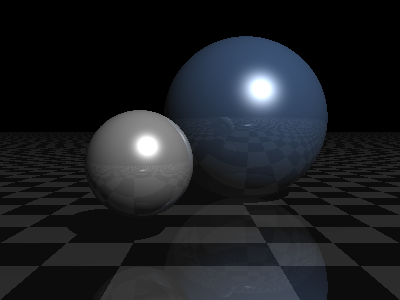
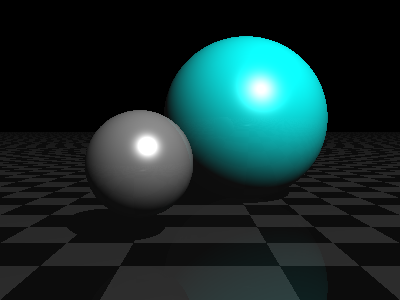
feat: backup texture code

Changed region(s): [[0.42, 0.12, 0.84, 0.6], [0.54, 0.9, 0.81, 1.0]]

diff --git a/ray_tracer/infrastructure.py b/ray_tracer/infrastructure.py
@@ -257,44 +257,6 @@ class NumpySphere(Shape):
         return self.diffuse
 
 
-def get_texture_color(texture: np.ndarray, u: float, v: float) -> NumpyRGBColor:
-    """
-    Retrieve the color from a normalized texture image at given UV coordinates.
-
-    Args:
-        texture (np.ndarray): A NumPy array of shape (H, W, 3) with values in [0, 1].
-        u (float): U coordinate (horizontal).
-        v (float): V coordinate (vertical).
-
-    Returns:
-        NumpyRGBColor: The RGB color at the specified UV coordinates.
-    """
-    u = u % 1  # Repeat if u > 1
-    v = v % 1
-    height, width, _ = texture.shape
-
-    i = (
-        (u * (width - 1)).astype(int)
-        if isinstance(u, np.ndarray)
-        else int(u * (width - 1))
-    )
-    j = (
-        (v * (height - 1)).astype(int)
-        if isinstance(v, np.ndarray)
-        else int(v * (height - 1))
-    )
-    color = texture[j, i, :3]
-    if len(color.shape) > 1 and color.shape[0] > 1:
-        color = color.mean(axis=0)  # Reduce to a single RGB value by averaging
-    if color.shape != (3,):
-        if color.shape == (1, 3):
-            color = color.flatten()
-        else:
-            raise ValueError(f"Expected 3 color channels, but got {color.shape}")
-    r, g, b = color
-    return NumpyRGBColor(r, g, b)
-
-
 class NumpyTexturedSphere(NumpySphere):
     def __init__(
         self,
@@ -306,7 +268,6 @@ class NumpyTexturedSphere(NumpySphere):
         super().__init__(center, radius, NumpyRGBColor(1, 1, 1), mirror)
         image = Image.open(texture_path).convert("RGB")
         self.texture = np.asarray(image) / 255.0
-        self.tex_height, self.tex_width, _ = self.texture.shape
 
     def diffusecolor(self, intersection_point: NumpyVectorArray3D) -> NumpyRGBColor:
         normal = (intersection_point - self.center).norm()
@@ -314,7 +275,31 @@ class NumpyTexturedSphere(NumpySphere):
         u = 0.5 + np.arctan2(normal.z, normal.x) / (2 * np.pi)
         v = 0.5 - np.arcsin(normal.y) / np.pi
 
-        return get_texture_color(self.texture, u, v)
+        u = u % 1  # Repeat if u > 1
+        v = v % 1
+        height, width, _ = self.texture.shape
+
+        i = (
+            (u * (width - 1)).astype(int)
+            if isinstance(u, np.ndarray)
+            else int(u * (width - 1))
+        )
+        j = (
+            (v * (height - 1)).astype(int)
+            if isinstance(v, np.ndarray)
+            else int(v * (height - 1))
+        )
+
+        color = self.texture[j, i, :3]
+        if len(color.shape) > 1 and color.shape[0] > 1:
+            color = color.mean(axis=0)  # Reduce to a single RGB value by averaging
+        if color.shape != (3,):
+            if color.shape == (1, 3):
+                color = color.flatten()
+            else:
+                raise ValueError(f"Expected 3 color channels, but got {color.shape}")
+        r, g, b = color
+        return NumpyRGBColor(r, g, b)
 
 
 class CheckeredSphere(NumpySphere):

diff --git a/main.py b/main.py
@@ -8,20 +8,18 @@ from ray_tracer.infrastructure import (
     NumpyRenderer,
     NumpyRGBColor,
     NumpySphere,
-    NumpyTexturedSphere,
     NumpyVector3D,
 )
 
 if __name__ == "__main__":
-    renderer = NumpyRenderer(0.5, 1.0)
+    renderer = NumpyRenderer(0.0, 1.0)
 
     scene = Scene3D(
         [
-            NumpyTexturedSphere(
+            NumpySphere(
                 NumpyVector3D(0.55, 0.5, 3),
                 1.0,
-                Path("sourceimages/2k_earth_daymap.jpg"),
-                # NumpyRGBColor(0, 1, 1),
+                NumpyRGBColor(0, 1, 1),
             ),
             NumpySphere(
                 NumpyVector3D(-0.45, 0.1, 1), 0.4, NumpyRGBColor(0.5, 0.5, 0.5)
